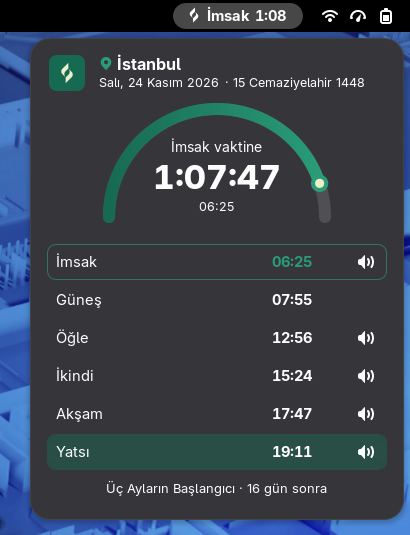
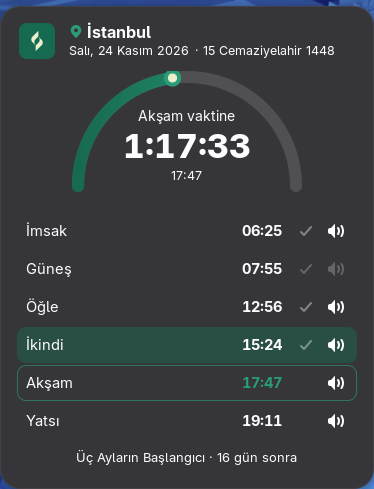
Popup: güneş satırında pasif kıldım ve ezan simgeleri
Güneş satırında simgeler görünmezdi ve satır boş kalıyordu; şimdi soluk ve
tıklanamaz (erişilebilir etiketiyle). St CSS 'opacity' desteklemediği için
saydamlık aktör üzerinden verilir; bu, kılınmamış vakitlerde parlak görünen
'kıldım' işaretini de düzeltir.

diff --git a/gnome-extension/sakaleyn@ensignalp/lib/popup.js b/gnome-extension/sakaleyn@ensignalp/lib/popup.js
@@ -35,9 +35,13 @@ function label(text, styleClass = '', props = {}) {
     return new St.Label({text: String(text ?? ''), style_class: styleClass, y_align: Clutter.ActorAlign.CENTER, ...props});
 }
 
+// Simge saydamlıkları (St CSS `opacity` desteklemez; aktörün opacity değeri kullanılır)
+const DIM_PASSIVE = 60; // güneş: yer tutan, tıklanamaz simgeler
+const DIM_IDLE = 100; // kılınmadı işareti, kapalı ezan zili
+
 /** Düğmeyi yerini koruyarak gizler/gösterir (satırdaki hizayı bozmaz). */
-function setSlotVisible(button, on) {
-    button.opacity = on ? 255 : 0;
+function setSlotVisible(button, on, opacity = 255) {
+    button.opacity = on ? opacity : 0;
     button.reactive = on;
     button.can_focus = on;
 }
@@ -151,18 +155,22 @@ export class SakaleynPopup {
             const time = label('--:--', 'sakaleyn-row-time');
             row.add_child(name);
             row.add_child(time);
-            // Her satırda aynı iki düğme yuvası: güneşte (ezan yok) görünmez düğmeler yer
-            // tutar, "kıldım" henüz geçmemiş vakitte gizlenmez saydamlaşır; saatler hizalı kalır.
+            // Her satırda aynı iki düğme yuvası; saatler hizalı kalır. Güneşte (namaz ve ezan
+            // yok) iki simge görünür ama pasiftir; "kıldım" henüz geçmemiş vakitte saydamlaşır.
             const isAdhan = ADHAN_VAKITS.includes(v);
             const prayed = iconButton('object-select-symbolic', 'sakaleyn-prayed', () => ctx.actions.prayed(v));
             const bell = iconButton('audio-volume-high-symbolic', 'sakaleyn-bell', () => ctx.actions.toggleAdhan(v));
             if (!isAdhan) {
-                for (const b of [prayed, bell])
-                    setSlotVisible(b, false);
+                for (const b of [prayed, bell]) {
+                    b.reactive = false;
+                    b.can_focus = false;
+                    b.opacity = DIM_PASSIVE;
+                }
             }
             row.add_child(prayed);
             row.add_child(bell);
-            this._rows[v] = {row, name, time, bell: isAdhan ? bell : null, prayed: isAdhan ? prayed : null};
+            this._rows[v] = {row, name, time, bell: isAdhan ? bell : null, prayed: isAdhan ? prayed : null,
+                passive: isAdhan ? [] : [prayed, bell]};
             this._list.add_child(row);
         }
         this.actor.add_child(this._list);
@@ -328,13 +336,15 @@ export class SakaleynPopup {
                 const on = Boolean(state.adhan?.[v]);
                 r.bell.child.icon_name = on ? 'audio-volume-high-symbolic' : 'audio-volume-muted-symbolic';
                 r.bell.accessible_name = on ? s.t('adhan_on') : s.t('adhan_off');
-                r.bell.style_class = `sakaleyn-icon-button sakaleyn-bell${on ? '' : ' sakaleyn-off'}`;
+                r.bell.opacity = on ? 255 : DIM_IDLE;
             }
+            for (const b of r.passive)
+                b.accessible_name = s.t('sunrise_no_adhan');
             if (r.prayed) {
                 const done = (state.prayed ?? []).includes(v);
-                setSlotVisible(r.prayed, Boolean(passed));
+                setSlotVisible(r.prayed, Boolean(passed), done ? 255 : DIM_IDLE);
                 r.prayed.accessible_name = s.t('prayed');
-                r.prayed.style_class = `sakaleyn-icon-button sakaleyn-prayed${done ? ' sakaleyn-done' : ''}`;
+                r.prayed.style_class = `sakaleyn-icon-button${done ? ' sakaleyn-done' : ''}`;
             }
         }
 

diff --git a/gnome-extension/sakaleyn@ensignalp/stylesheet.css b/gnome-extension/sakaleyn@ensignalp/stylesheet.css
@@ -85,9 +85,8 @@
 }
 .sakaleyn-icon-button:hover { background-color: rgba(127, 127, 127, 0.2); }
 .sakaleyn-icon-button:focus { box-shadow: inset 0 0 0 2px rgba(42, 157, 120, 0.8); }
-.sakaleyn-off { opacity: 0.4; }
-.sakaleyn-prayed { opacity: 0.35; }
-.sakaleyn-done { color: #2a9d78; opacity: 1; }
+/* kılındı işareti; diğer simge saydamlıkları popup.js'te (St CSS opacity desteklemez) */
+.sakaleyn-done { color: #2a9d78; }
 
 .sakaleyn-notice {
   font-size: 0.85em;

diff --git a/gnome-extension/sakaleyn@ensignalp/lib/i18n.js b/gnome-extension/sakaleyn@ensignalp/lib/i18n.js
@@ -41,6 +41,7 @@ const T = {
     prayed: ['Kıldım', 'Prayed'],
     adhan_on: ['Ezan açık', 'Adhan on'],
     adhan_off: ['Ezan kapalı', 'Adhan off'],
+    sunrise_no_adhan: ['Güneş vaktinde namaz ve ezan yok', 'No prayer or adhan at sunrise'],
     playing_adhan: ['Ezan okunuyor', 'Adhan playing'],
     in_days: ['gün sonra', 'days'],
     today_word: ['bugün', 'today'],
